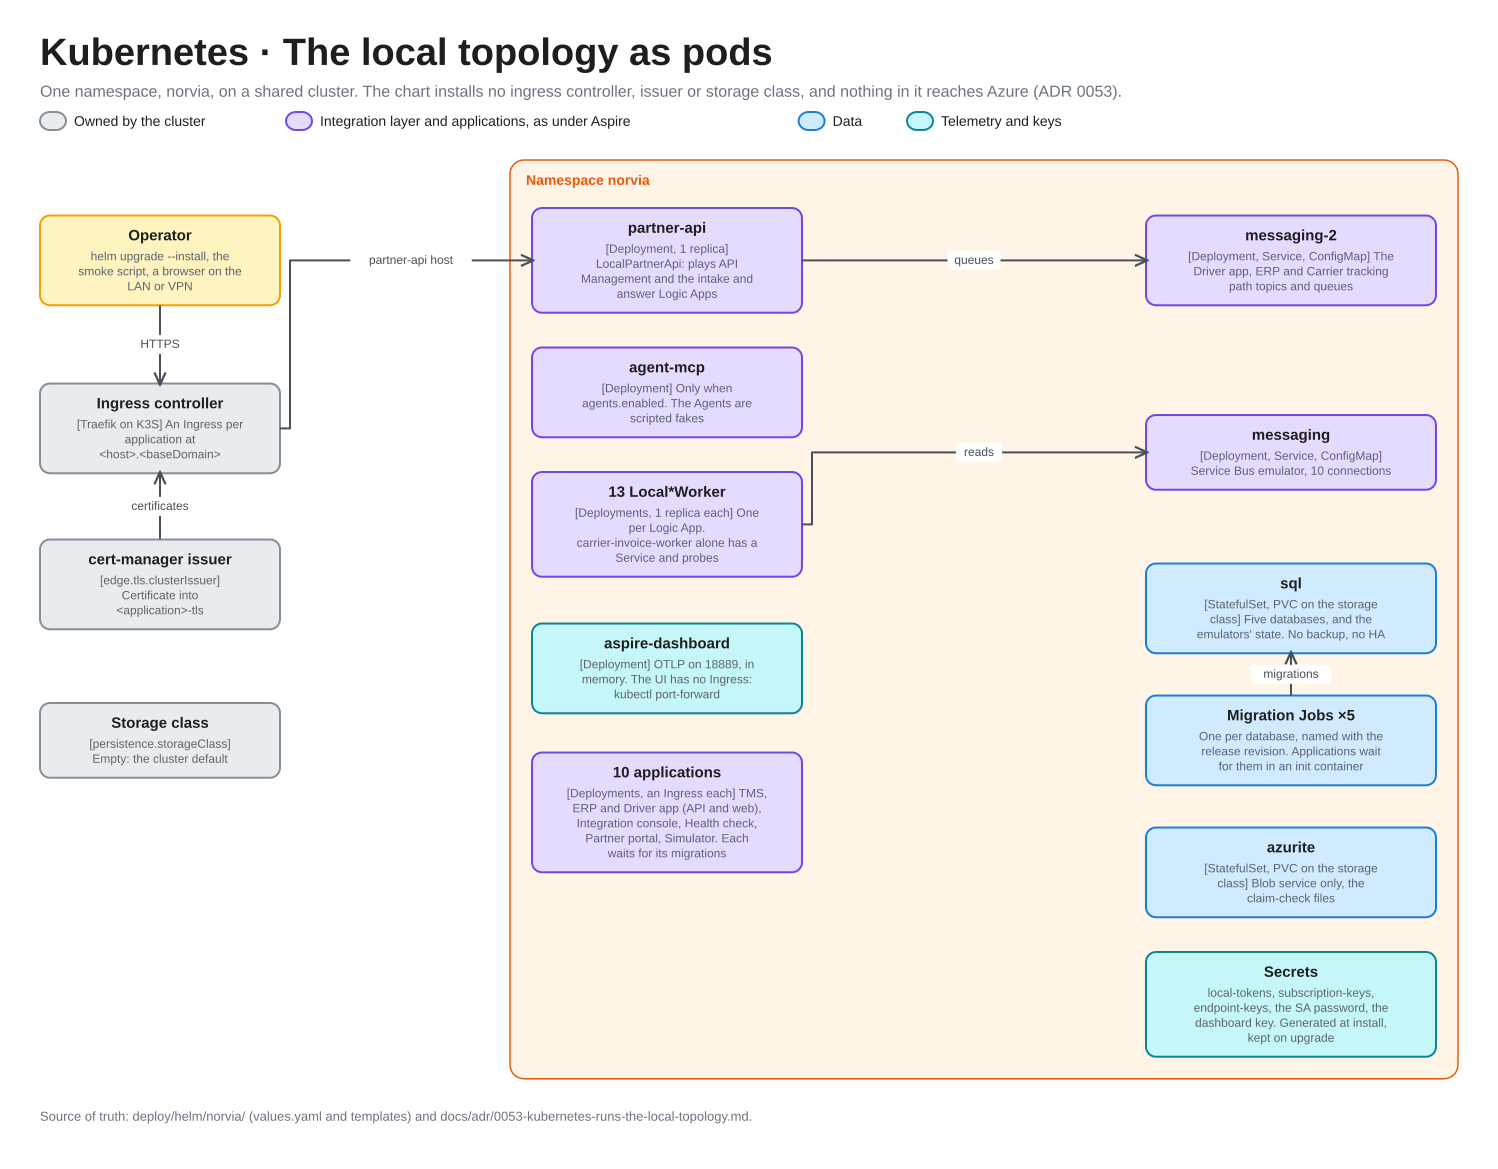
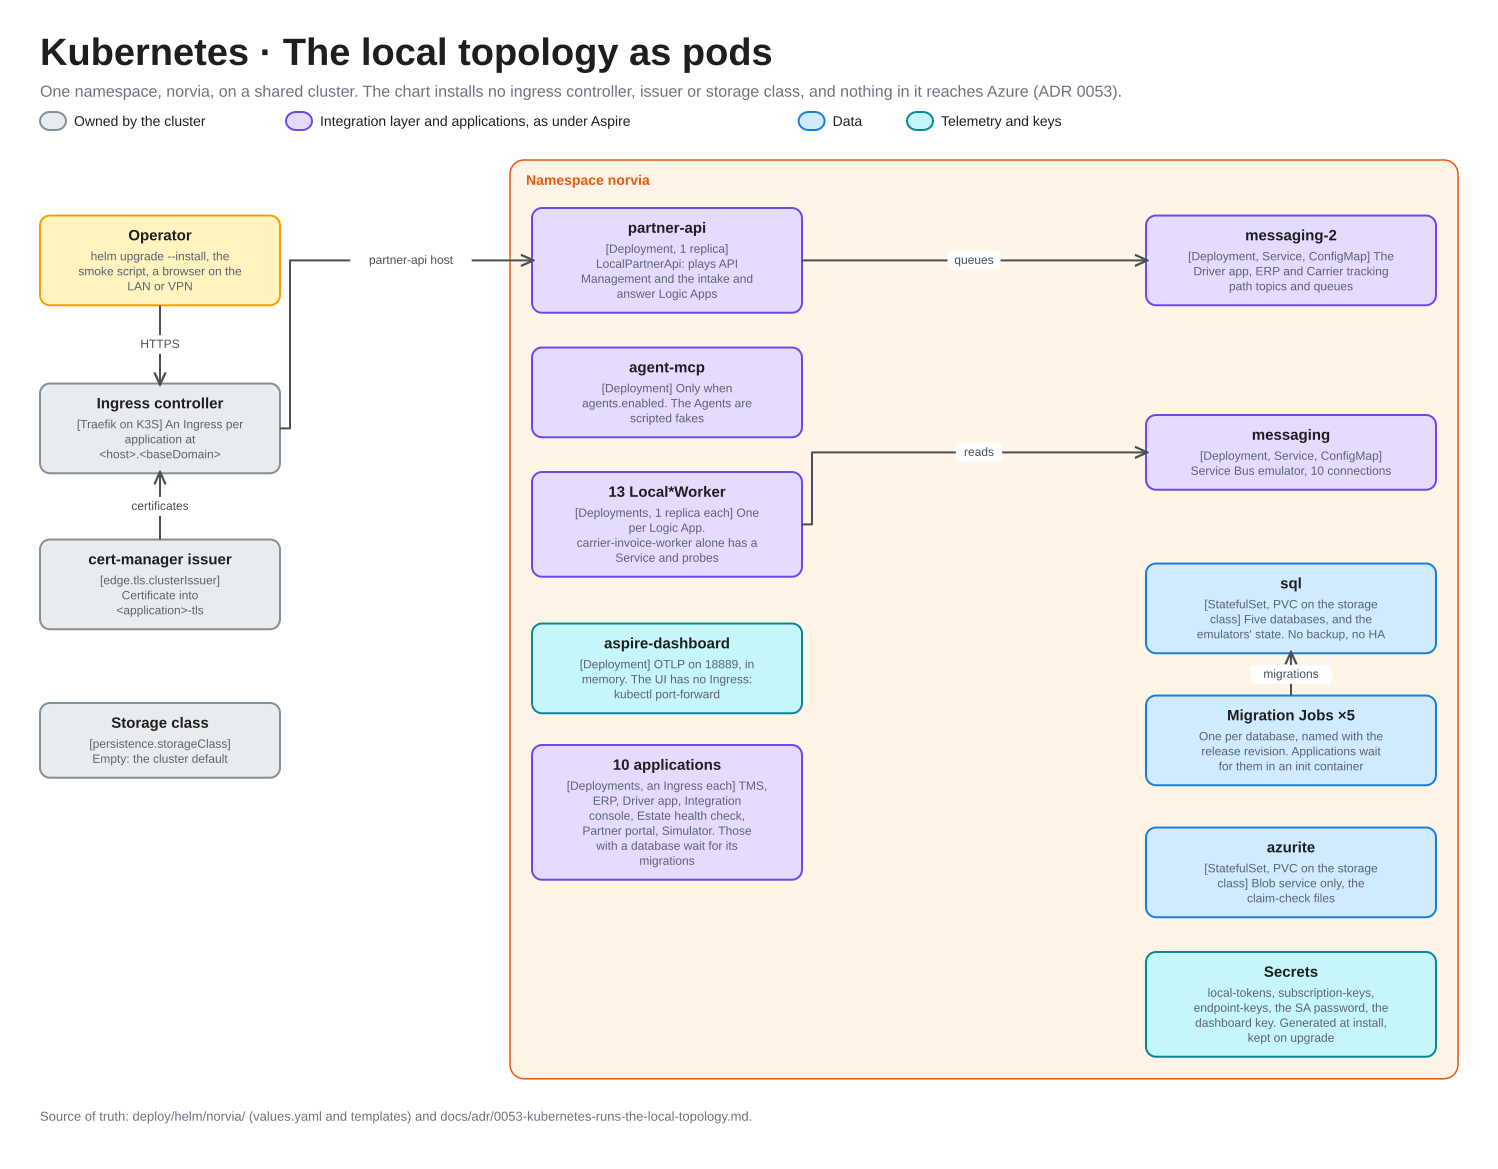
Docs: review fixes (#1023)

Changed region(s): [[0.3378, 0.6159, 0.5527, 0.7699]]

diff --git a/docs/architecture/diagrams/deployment.cs b/docs/architecture/diagrams/deployment.cs
@@ -133,7 +133,7 @@ specs["kubernetes"] = new GraphSpec
         new GraphNode { Id = "mcp", Col = 1.3, Row = 1.5, Palette = Vi, W = 270, Title = "agent-mcp", Sub = "[Deployment] Only when agents.enabled. The Agents are scripted fakes" },
         new GraphNode { Id = "workers", Col = 1.3, Row = 2.6, Palette = Vi, W = 270, Title = "13 Local*Worker", Sub = "[Deployments, 1 replica each] One per Logic App. carrier-invoice-worker alone has a Service and probes" },
         new GraphNode { Id = "dash", Col = 1.3, Row = 3.8, Palette = "teal", W = 270, Title = "aspire-dashboard", Sub = "[Deployment] OTLP on 18889, in memory. The UI has no Ingress: kubectl port-forward" },
-        new GraphNode { Id = "apps", Col = 1.3, Row = 5.0, Palette = Vi, W = 270, Title = "10 applications", Sub = "[Deployments, an Ingress each] TMS, ERP and Driver app (API and web), Integration console, Health check, Partner portal, Simulator. Each waits for its migrations" },
+        new GraphNode { Id = "apps", Col = 1.3, Row = 5.0, Palette = Vi, W = 270, Title = "10 applications", Sub = "[Deployments, an Ingress each] TMS, ERP, Driver app, Integration console, Estate health check, Partner portal, Simulator. Those with a database wait for its migrations" },
         new GraphNode { Id = "bus1", Col = 2.9, Row = 2.0, Palette = Vi, W = 290, Title = "messaging", Sub = "[Deployment, Service, ConfigMap] Service Bus emulator, 10 connections" },
         new GraphNode { Id = "bus2", Col = 2.9, Row = 0.4, Palette = Vi, W = 290, Title = "messaging-2", Sub = "[Deployment, Service, ConfigMap] The Driver app, ERP and Carrier tracking path topics and queues" },
         new GraphNode { Id = "sql", Col = 2.9, Row = 3.3, Palette = Bl, W = 290, Title = "sql", Sub = "[StatefulSet, PVC on the storage class] Five databases, and the emulators' state. No backup, no HA" },

diff --git a/docs/operations/kubernetes.md b/docs/operations/kubernetes.md
@@ -85,7 +85,7 @@ Pass `-Insecure` when the ingress is plain http, `-SkipCertificateCheck` for a s
 
 First it reads every application's Ingress and fails one that is not restricted to the private ranges (the chart's `internal-only` middleware, or the `whitelist-source-range` of ingress-nginx, with no public range in it). It can only read what the controller is told, because the script reaches the ingress from inside those ranges; with `edge.internal.controller=none` the restriction is your internal ingress class, which it cannot read, so pass `-SkipIngressCheck` and check it yourself. Then it checks the isolation: a throwaway pod in a namespace made for the run connects to every application (all 11, 12 with `-Agents`), SQL Server and the two emulators and must be refused (after the same pod, inside the sandbox's namespace, has connected, so a probe that cannot run is not mistaken for a refusal). The namespace is removed after. Then it waits for every application to answer `/health` on its hostname, with none skipped for being missing, and drives one Shipment from booking to delivery through the ingress: Brouwer Dranken books, the Planner assigns and releases, Van Dijk Transport confirms, sends PU, DEP and POD tracking events and a Proof of delivery, and Brouwer Dranken reads the Proof of delivery, its file and the tracking events back. It signs the tokens itself with `local-tokens/signing-key` and takes the keys from `subscription-keys`, so it needs `get` on those Secrets. It stops at the first failing step, naming it, with the status the application answered and never a body, token or key. Each run leaves one Transport Order behind.
 
-A pass settles what the chart's README lists as not verified: that the ingress controller and cert-manager route to every application, that every Ingress is restricted and every Service closed to another namespace, that two emulators share one SQL Server, and that the booking, tracking and Proof of delivery path works through the emulators and Azurite. It does not cover that the Aspire dashboard finds the run's trail, because the smoke script does not search for it. Check it by hand on the Integration console's Message trails page.
+A pass settles what the chart's README lists as not verified: that the ingress controller and cert-manager route to every application, that every Ingress is restricted and every Service closed to another namespace, that two emulators share one SQL Server, and that the booking, tracking and Proof of delivery path works through the emulators and Azurite. It does not cover that the Aspire dashboard finds the run's trail, because the smoke script does not search for it. Check it by hand: search the run's correlation ID on the Integration console's trail search (its home page).
 
 ## What goes wrong
 
